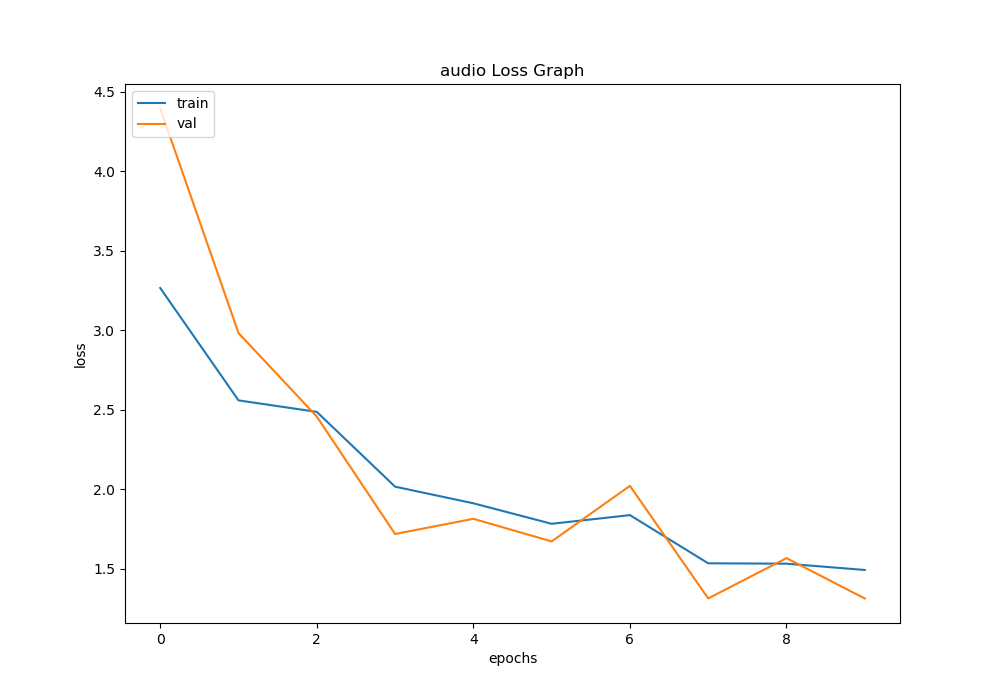
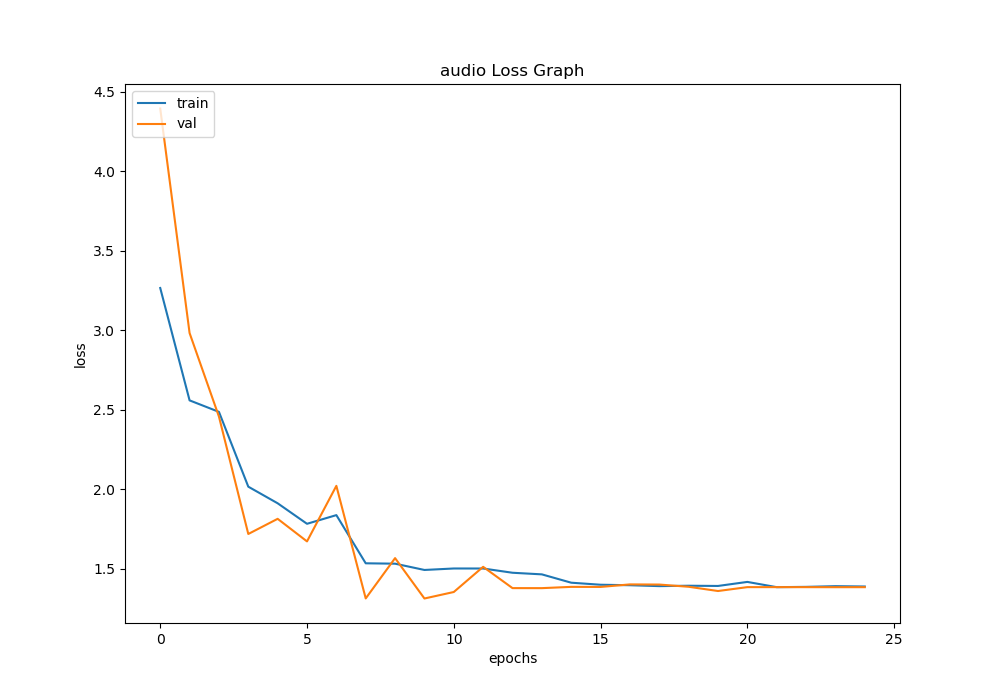
multi model built

diff --git a/training/multimodal_training.py b/training/multimodal_training.py
@@ -13,9 +13,9 @@ random.seed(89)
 seed(25)
 tf.random.set_seed(40)
 
-EPOCHS = 1
+EPOCHS = 50
 INPUT_SHAPE = (150, 150, 3)
-BATCH_SIZE = 4
+BATCH_SIZE =4
 NUM_CLASSES = 4
 VAL_SPLIT = 0.1
 
@@ -143,6 +143,17 @@ def generator_data_fit(generator, first_data, second_data, labels, subset):
         yield [first_x[0], second_x[0]], first_x[1]
 
 
+def generator_test_data_fit(generator, first_data, second_data, labels):
+    first_gen = generator.flow(first_data, labels, batch_size=BATCH_SIZE)
+    second_gen = generator.flow(second_data, labels, batch_size=BATCH_SIZE)
+
+    while True:
+        first_x = first_gen.next()
+        second_x = second_gen.next()
+
+        yield [first_x[0], second_x[0]], first_x[1]
+
+
 # print("Augmenting training data")
 # img_train_gen = train_datagen.flow(IMG_TRAIN_DATA, TRAIN_LABELS, batch_size=BATCH_SIZE, subset='training')
 # aud_train_gen = train_datagen.flow(AUD_TRAIN_DATA, TRAIN_LABELS, batch_size=BATCH_SIZE, subset='training')
@@ -155,7 +166,6 @@ def generator_data_fit(generator, first_data, second_data, labels, subset):
 
 # Setup callbacks
 print("Setting up callbacks")
-
 callbacks = create_callbacks()  # BEST_MODEL_PATH + name + file_ext, "loss", "min", 5)
 
 # Building model
@@ -171,25 +181,30 @@ model.compile(optimizer=opts, loss="categorical_crossentropy", metrics=['accurac
 
 # Train model
 print("Training model")
-history = model.fit(generator_data_fit(train_datagen, IMG_TRAIN_DATA, AUD_TRAIN_DATA, TRAIN_LABELS, 'training'),
-                    validation_data=generator_data_fit(train_datagen, IMG_TRAIN_DATA, AUD_TRAIN_DATA, TRAIN_LABELS,
-                                                       'validation'),
-                    callbacks=callbacks,
-                    # steps_per_epoch=int(len(IMG_TRAIN_DATA) // BATCH_SIZE),
-                    epochs=EPOCHS)
+history = model.fit(
+    generator_data_fit(train_datagen, IMG_TRAIN_DATA, AUD_TRAIN_DATA, TRAIN_LABELS, 'training'),
+    validation_data=generator_data_fit(train_datagen, IMG_TRAIN_DATA, AUD_TRAIN_DATA, TRAIN_LABELS, 'validation'),
+    callbacks=callbacks,
+    validation_steps=int(len(VAL_SPLIT * IMG_TRAIN_DATA) // BATCH_SIZE),
+    steps_per_epoch=int(len(IMG_TRAIN_DATA) // BATCH_SIZE),
+    epochs=EPOCHS)
 
 # Evaluate model
-# name = 'multi'
-# print("Evaluating model")
-# acc = model.evaluate([IMG_TEST_DATA, AUD_TEST_DATA], TEST_LABELS, batch_size=BATCH_SIZE)
-# preds = model.predict([IMG_TEST_DATA, AUD_TEST_DATA], verbose=0)
-# preds = np.argmax(preds, axis=1)
-# model_loss_path = "../graphs/" + name + "_loss.png"
-# model_acc_path = "../graphs/" + name + "_acc.png"
-# model_cm_path = "../graphs/" + name + "_cm.png"
-# plot_confusion_matrix(TEST_LABELS, preds, TRUE_LABELS, name, model_cm_path)
-# acc_loss_graphs_to_file(name, history, ['train', 'val'], 'upper left', model_loss_path, model_acc_path)
-# model_metrics_path = "../results/" + name + "_metrics.txt"
-# metrics_to_file(name, model_metrics_path, TEST_LABELS, preds, TRUE_LABELS, acc)
+name = 'multi'
+print("Evaluating model")
+acc = model.evaluate(
+    [IMG_TEST_DATA, AUD_TEST_DATA],
+    TEST_LABELS,
+    batch_size=BATCH_SIZE)
+
+preds = model.predict([IMG_TEST_DATA, AUD_TEST_DATA], verbose=0)
+preds = np.argmax(preds, axis=1)
+model_loss_path = "../graphs/" + name + "_loss.png"
+model_acc_path = "../graphs/" + name + "_acc.png"
+model_cm_path = "../graphs/" + name + "_cm.png"
+plot_confusion_matrix(TEST_LABELS, preds, TRUE_LABELS, name, model_cm_path)
+acc_loss_graphs_to_file(name, history, ['train', 'val'], 'upper left', model_loss_path, model_acc_path)
+model_metrics_path = "../results/" + name + "_metrics.txt"
+metrics_to_file(name, model_metrics_path, TEST_LABELS, preds, TRUE_LABELS, acc)
 
 print("Done!")

diff --git a/models/model.py b/models/model.py
@@ -37,11 +37,11 @@ def fully_connected(num_classes):
 
 def fully_connected2(concat, num_classes):
     z = Flatten()(concat)
-    z = Dense(1024, activation='relu')(concat)
-    z = Dropout(0.2)(concat)
-    z = Dense(1024, activation='relu')(concat)
-    z = Dropout(0.2)(concat)
-    z = Dense(num_classes, activation='softmax')(concat)
+    z = Dense(1024, activation='relu')(z)
+    z = Dropout(0.2)(z)
+    z = Dense(1024, activation='relu')(z)
+    z = Dropout(0.2)(z)
+    z = Dense(num_classes, activation='softmax')(z)
 
     return z
 
@@ -53,17 +53,21 @@ def fully_connected2(concat, num_classes):
 #     x = Dense(8, activation="relu")(inputA)
 #     x = Dense(4, activation="relu")(x)
 #     x = Model(inputs=inputA, outputs=x)
+
 #     # the second branch opreates on the second input
 #     y = Dense(64, activation="relu")(inputB)
 #     y = Dense(32, activation="relu")(y)
 #     y = Dense(4, activation="relu")(y)
 #     y = Model(inputs=inputB, outputs=y)
+
 #     # combine the output of the two branches
 #     combined = Concatenate(axis=1)([x.input, y.input])
+
 #     # apply a FC layer and then a regression prediction on the
 #     # combined outputs
 #     z = Dense(2, activation="relu")(combined)
 #     z = Dense(1, activation="linear")(z)
+
 #     # our model will accept the inputs of the two branches and
 #     # then output a single value
 #     model = Model(inputs=[x.input, y.input], outputs=z)

diff --git a/training/image_training.py b/training/image_training.py
@@ -13,9 +13,9 @@ random.seed(89)
 seed(25)
 tf.random.set_seed(40)
 
-EPOCHS = 10
+EPOCHS = 50
 INPUT_SHAPE = (150, 150, 3)
-BATCH_SIZE = 4
+BATCH_SIZE = 8
 NUM_CLASSES = 4
 VAL_SPLIT = 0.1
 
@@ -137,7 +137,7 @@ history = model.fit(train_gen,
                     callbacks=callbacks,
                     # steps_per_epoch=int(len(TRAIN_DATA) // BATCH_SIZE),
                     epochs=EPOCHS)
-print(history)
+
 # Evaluate model
 name = 'image'
 print("Evaluating model")

diff --git a/training/audio_training.py b/training/audio_training.py
@@ -13,7 +13,7 @@ random.seed(89)
 seed(25)
 tf.random.set_seed(40)
 
-EPOCHS = 10
+EPOCHS = 50
 INPUT_SHAPE = (150, 150, 3)
 BATCH_SIZE = 8
 NUM_CLASSES = 4
